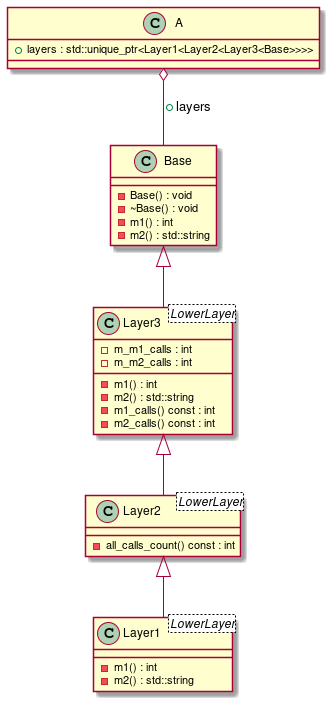
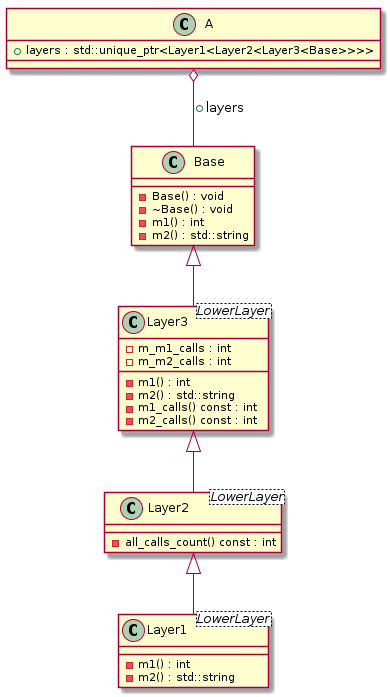
Updated test cases documentation

Changed region(s): [[0.0, 0.0, 0.994, 1.0]]

diff --git a/docs/test_cases/t00019.md b/docs/test_cases/t00019.md
@@ -22,21 +22,25 @@ diagrams:
 
 ```
 ## Source code
-File t00019.cc
+File t00019_layer2.h
 ```cpp
-#include "t00019_base.h"
-#include "t00019_layer1.h"
-#include "t00019_layer2.h"
-#include "t00019_layer3.h"
-
-#include <memory>
+#pragma once
 
 namespace clanguml {
 namespace t00019 {
 
-class A {
-public:
-    std::unique_ptr<Layer1<Layer2<Layer3<Base>>>> layers;
+template <typename LowerLayer> class Layer2 : public LowerLayer {
+
+    using LowerLayer::LowerLayer;
+
+    using LowerLayer::m1;
+
+    using LowerLayer::m2;
+
+    int all_calls_count() const
+    {
+        return LowerLayer::m1_calls() + LowerLayer::m2_calls();
+    }
 };
 }
 }
@@ -95,6 +99,26 @@ template <typename LowerLayer> class Layer1 : public LowerLayer {
 }
 
 ```
+File t00019.cc
+```cpp
+#include "t00019_base.h"
+#include "t00019_layer1.h"
+#include "t00019_layer2.h"
+#include "t00019_layer3.h"
+
+#include <memory>
+
+namespace clanguml {
+namespace t00019 {
+
+class A {
+public:
+    std::unique_ptr<Layer1<Layer2<Layer3<Base>>>> layers;
+};
+}
+}
+
+```
 File t00019_layer3.h
 ```cpp
 #pragma once
@@ -127,30 +151,6 @@ template <typename LowerLayer> class Layer3 : public LowerLayer {
 private:
     int m_m1_calls{};
     int m_m2_calls{};
-};
-}
-}
-
-```
-File t00019_layer2.h
-```cpp
-#pragma once
-
-namespace clanguml {
-namespace t00019 {
-
-template <typename LowerLayer> class Layer2 : public LowerLayer {
-
-    using LowerLayer::LowerLayer;
-
-    using LowerLayer::m1;
-
-    using LowerLayer::m2;
-
-    int all_calls_count() const
-    {
-        return LowerLayer::m1_calls() + LowerLayer::m2_calls();
-    }
 };
 }
 }

diff --git a/docs/test_cases/t00018.md b/docs/test_cases/t00018.md
@@ -17,36 +17,6 @@ diagrams:
 
 ```
 ## Source code
-File t00018_impl.cc
-```cpp
-#include "t00018_impl.h"
-#include "t00018.h"
-
-namespace clanguml {
-namespace t00018 {
-namespace impl {
-
-widget::widget(int n)
-    : n(n)
-{
-}
-
-void widget::draw(const clanguml::t00018::widget &w) const
-{
-    if (w.shown())
-        std::cout << "drawing a const widget " << n << '\n';
-}
-
-void widget::draw(const clanguml::t00018::widget &w)
-{
-    if (w.shown())
-        std::cout << "drawing a non-const widget " << n << '\n';
-}
-}
-}
-}
-
-```
 File t00018_impl.h
 ```cpp
 #pragma once
@@ -128,6 +98,36 @@ widget::widget(widget &&) = default;
 widget::~widget() = default;
 
 widget &widget::operator=(widget &&) = default;
+}
+}
+
+```
+File t00018_impl.cc
+```cpp
+#include "t00018_impl.h"
+#include "t00018.h"
+
+namespace clanguml {
+namespace t00018 {
+namespace impl {
+
+widget::widget(int n)
+    : n(n)
+{
+}
+
+void widget::draw(const clanguml::t00018::widget &w) const
+{
+    if (w.shown())
+        std::cout << "drawing a const widget " << n << '\n';
+}
+
+void widget::draw(const clanguml::t00018::widget &w)
+{
+    if (w.shown())
+        std::cout << "drawing a non-const widget " << n << '\n';
+}
+}
 }
 }
 

diff --git a/docs/test_cases/t00025.md b/docs/test_cases/t00025.md
@@ -1,0 +1,61 @@
+# t00025 - Template proxy pattern
+## Config
+```yaml
+compilation_database_dir: ..
+output_directory: puml
+diagrams:
+  t00025_class:
+    type: class
+    glob:
+      - ../../tests/t00025/t00025.cc
+    using_namespace:
+      - clanguml::t00025
+    include:
+      namespaces:
+        - clanguml::t00025
+
+```
+## Source code
+File t00025.cc
+```cpp
+#include <memory>
+
+namespace clanguml {
+namespace t00025 {
+
+class Target1 {
+public:
+    void m1() {}
+    void m2() {}
+};
+
+class Target2 {
+public:
+    void m1() {}
+    void m2() {}
+};
+
+template <typename T> class Proxy {
+public:
+    Proxy(std::shared_ptr<T> target)
+        : m_target{std::move(target)}
+    {
+    }
+    void m1() { m_target->m1(); }
+    void m2() { m_target->m2(); }
+
+private:
+    std::shared_ptr<T> m_target;
+};
+
+class ProxyHolder {
+public:
+    Proxy<Target1> proxy1;
+    Proxy<Target2> proxy2;
+};
+}
+}
+
+```
+## Generated UML diagrams
+![t00025_class](./t00025_class.png "Template proxy pattern")

diff --git a/docs/test_cases/t00024.md b/docs/test_cases/t00024.md
@@ -33,20 +33,20 @@ public:
 
 class Target1 : public Target {
 public:
-    void m1() override { }
-    void m2() override { }
+    void m1() override {}
+    void m2() override {}
 };
 
 class Target2 : public Target {
 public:
-    void m1() override { }
-    void m2() override { }
+    void m1() override {}
+    void m2() override {}
 };
 
 class Proxy : public Target {
 public:
     Proxy(std::shared_ptr<Target> target)
-        : m_target {std::move(target)}
+        : m_target{std::move(target)}
     {
     }
     void m1() override { m_target->m1(); }
@@ -55,7 +55,6 @@ public:
 private:
     std::shared_ptr<Target> m_target;
 };
-
 }
 }
 

diff --git a/docs/test_cases.md b/docs/test_cases.md
@@ -23,6 +23,7 @@
  * [t00022](./test_cases/t00022.md) - Template method pattern
  * [t00023](./test_cases/t00023.md) - Strategy pattern
  * [t00024](./test_cases/t00024.md) - Proxy pattern
+ * [t00025](./test_cases/t00025.md) - Template proxy pattern
 ## Sequence diagrams
  * [t20001](./test_cases/t20001.md) - Basic sequence diagram
 ## Configuration diagrams
